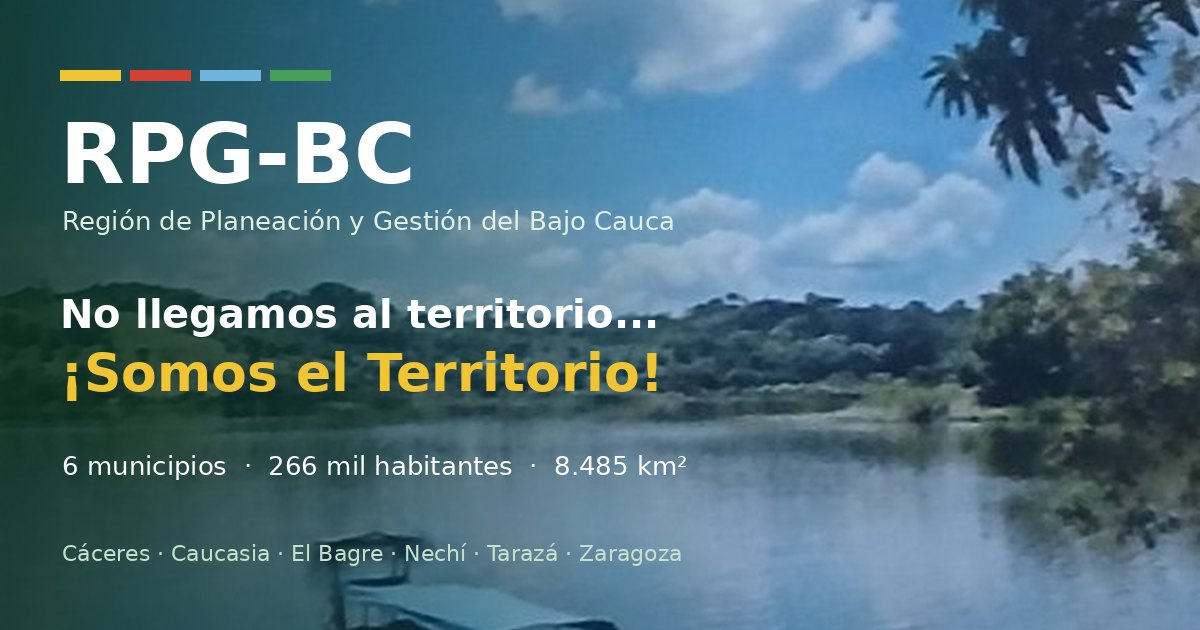
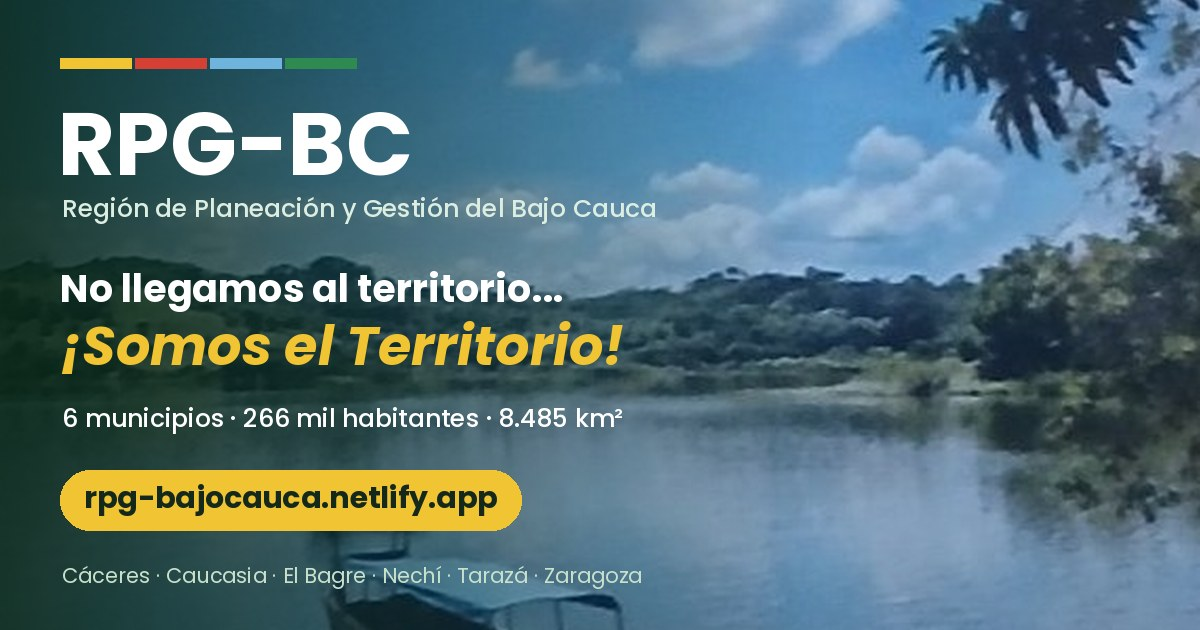
Flyer, nueva imagen de vista previa y robot de redes en GitHub Actions
Claude-Session: https://claude.ai/code/session_01Qv96KUwXrTQUjo7ijt55vV

diff --git a/index.html b/index.html
@@ -11,12 +11,15 @@
 <meta property="og:type" content="website">
 <meta property="og:title" content="RPG-BC · ¡Somos el Territorio!">
 <meta property="og:description" content="6 municipios, 1 visión regional: un Bajo Cauca más sostenible y biodiverso. Conoce la RPG-BC y presenta tu iniciativa.">
-<meta property="og:image" content="https://rpg-bajocauca.netlify.app/og.jpg">
+<meta property="og:image" content="https://rpg-bajocauca.netlify.app/og.jpg?v=2">
 <meta property="og:url" content="https://rpg-bajocauca.netlify.app/">
 <meta name="twitter:card" content="summary_large_image">
 <meta name="twitter:title" content="RPG-BC · ¡Somos el Territorio!">
 <meta name="twitter:description" content="6 municipios, 1 visión regional: un Bajo Cauca más sostenible y biodiverso.">
-<meta name="twitter:image" content="https://rpg-bajocauca.netlify.app/og.jpg">
+<meta name="twitter:image" content="https://rpg-bajocauca.netlify.app/og.jpg?v=2">
+<meta property="og:site_name" content="RPG-BC">
+<meta property="og:locale" content="es_CO">
+<meta property="og:image:alt" content="RPG-BC: No llegamos al territorio, ¡Somos el Territorio! — rpg-bajocauca.netlify.app">
 <meta property="og:image:width" content="1200">
 <meta property="og:image:height" content="630">
 
@@ -209,6 +212,29 @@ textarea{min-height:90px;resize:vertical}
 .contador-ini{display:flex;justify-content:space-between;align-items:center;margin-bottom:12px}
 .contador-ini b{color:var(--verde)}
 
+/* En redes */
+.redes-sec{background:linear-gradient(180deg,#fff,var(--menta))}
+.barra-redes{display:flex;flex-wrap:wrap;align-items:center;gap:10px;margin-bottom:20px}
+.hoy{background:var(--verde);color:#fff;border-radius:999px;padding:8px 16px;font-weight:700;font-size:.85rem}
+.hoy b{color:var(--amarillo)}
+.revision{font-size:.8rem;color:var(--gris)}
+.filtros{display:flex;gap:6px;flex-wrap:wrap;margin-bottom:18px}
+.filtros button{font-family:inherit;font-size:.78rem;font-weight:700;border:2px solid #cfe1d5;background:#fff;color:var(--verde);border-radius:999px;padding:7px 14px;cursor:pointer}
+.filtros button.on{background:var(--verde);border-color:var(--verde);color:#fff}
+.posts{display:grid;grid-template-columns:repeat(3,1fr);gap:16px}
+.post{background:#fff;border-radius:20px;overflow:hidden;box-shadow:0 10px 26px rgba(0,0,0,.08);display:flex;flex-direction:column;animation:aparece .5s}
+.post .img{position:relative;aspect-ratio:16/10;background:var(--verde);overflow:hidden}
+.post .img img,.post .img iframe{width:100%;height:100%;object-fit:cover;border:0;display:block}
+.post .red{position:absolute;left:10px;top:10px;background:rgba(0,0,0,.6);color:#fff;font-size:.68rem;font-weight:700;padding:4px 10px;border-radius:999px;letter-spacing:.5px}
+.post .red.nuevo{background:var(--rojo)}
+.post .play{position:absolute;inset:0;display:flex;align-items:center;justify-content:center;background:rgba(0,0,0,.25);border:0;cursor:pointer;color:#fff;font-family:inherit;font-weight:800;font-size:.9rem;letter-spacing:1px}
+.post .play span{background:var(--rojo);padding:10px 18px;border-radius:999px}
+.post .cuerpo{padding:14px 16px;display:flex;flex-direction:column;gap:6px;flex:1}
+.post .fecha{font-size:.72rem;color:var(--gris)}
+.post h4{font-size:.92rem;color:var(--tinta);line-height:1.35;display:-webkit-box;-webkit-line-clamp:4;-webkit-box-orient:vertical;overflow:hidden}
+.post a.ver{margin-top:auto;font-size:.78rem;font-weight:700;color:var(--verde3);text-decoration:none}
+@media (max-width:860px){.posts{grid-template-columns:1fr 1fr}}
+@media (max-width:520px){.posts{grid-template-columns:1fr}}
 /* Mapas y video */
 .mapas{display:grid;grid-template-columns:1fr 1.3fr;gap:18px;margin-bottom:24px}
 .mapas figure{background:#fff;border-radius:var(--radio);overflow:hidden;box-shadow:var(--sombra)}
@@ -301,6 +327,7 @@ footer b{color:#fff}
     <a href="#agenda" data-i18n="nAgenda">Agenda</a>
     <a href="#diferencia" data-i18n="nDiferencia">Lo que nos diferencia</a>
     <a href="#iniciativas" data-i18n="nIniciativas">Tu iniciativa</a>
+    <a href="#redes" data-i18n="nRedes">En redes</a>
     <a href="#video" data-i18n="nVideo">Video</a>
     <a href="#galeria" data-i18n="nGaleria">Galería</a>
     <a href="#contacto" data-i18n="nContacto">Contacto</a>
@@ -505,6 +532,30 @@ footer b{color:#fff}
   </div>
 </section>
 
+<!-- EN REDES (robot de GitHub) -->
+<section id="redes" class="redes-sec">
+  <div class="wrap">
+    <div class="titulo revela">
+      <div class="pre" data-i18n="rdPre">Lo último de @rpg_bajocauca</div>
+      <h2 data-i18n="rdH2">En redes y en las noticias</h2>
+      <p data-i18n="rdP">Un robot revisa cada 30 minutos las publicaciones de la RPG-BC y las noticias que la mencionan.</p>
+    </div>
+    <div class="barra-redes">
+      <span class="hoy" id="hoyRedes"><span data-i18n="rdHoy">Hoy</span>: <b id="numHoy">0</b> <span data-i18n="rdHoyTxt">publicaciones nuevas</span></span>
+      <button class="btn btn-verde" id="btnActualizar" style="padding:9px 18px;font-size:.82rem" data-i18n="rdActualizar">Actualizar</button>
+      <span class="revision" id="revision"></span>
+    </div>
+    <div class="filtros" id="filtros">
+      <button class="on" data-f="todo" data-i18n="rdTodo">Todo</button>
+      <button data-f="Instagram">Instagram</button>
+      <button data-f="YouTube">YouTube</button>
+      <button data-f="Noticia" data-i18n="rdNoticias">Noticias</button>
+      <button data-f="otras" data-i18n="rdOtras">Facebook / TikTok / X</button>
+    </div>
+    <div class="posts" id="posts"></div>
+  </div>
+</section>
+
 <!-- VIDEO -->
 <section id="video" class="seccion-video">
   <div class="wrap">
@@ -584,7 +635,7 @@ footer b{color:#fff}
 <script>
 /* ====== TEXTOS ES / EN ====== */
 const T={
-es:{marcaSub:"Región de Planeación y Gestión del Bajo Cauca",horaBC:"Hora en el Bajo Cauca",nSomos:"Somos",nMunicipios:"6 municipios",nAgenda:"Agenda",nDiferencia:"Lo que nos diferencia",nIniciativas:"Tu iniciativa",nGaleria:"Galería",nVideo:"Video",mapa1:"El Bajo Cauca antioqueño en Colombia",mapa2:"Los seis municipios de la RPG-BC",vPre:"El territorio en movimiento",vH2:"Seis paraísos biodiversos: río, bosque y gente",vNota:"Más videos de la RPG-BC en sus redes: @rpg_bajocauca",nContacto:"Contacto",
+es:{marcaSub:"Región de Planeación y Gestión del Bajo Cauca",horaBC:"Hora en el Bajo Cauca",nSomos:"Somos",nMunicipios:"6 municipios",nAgenda:"Agenda",nDiferencia:"Lo que nos diferencia",nIniciativas:"Tu iniciativa",nGaleria:"Galería",nVideo:"Video",nRedes:"En redes",rdPre:"Lo último de @rpg_bajocauca",rdH2:"En redes y en las noticias",rdP:"Un robot revisa cada 30 minutos las publicaciones de la RPG-BC y las noticias que la mencionan.",rdHoy:"Hoy",rdHoyTxt:"publicaciones nuevas",rdActualizar:"Actualizar",rdTodo:"Todo",rdNoticias:"Noticias",rdOtras:"Facebook / TikTok / X",rdRevisado:"Última revisión del robot",rdBuscando:"Buscando publicaciones…",rdVacio:"El robot todavía no ha traído publicaciones. Mientras tanto, mira las redes de la RPG-BC:",rdVer:"Ver publicación",rdVerVideo:"VER VIDEO",rdNuevo:"NUEVO",rdLista:"Listo, actualizado",mapa1:"El Bajo Cauca antioqueño en Colombia",mapa2:"Los seis municipios de la RPG-BC",vPre:"El territorio en movimiento",vH2:"Seis paraísos biodiversos: río, bosque y gente",vNota:"Más videos de la RPG-BC en sus redes: @rpg_bajocauca",nContacto:"Contacto",
 heroEtq:"Bajo Cauca · Seis paraísos biodiversos",heroH1:"No llegamos al territorio…<br><em>¡Somos el Territorio!</em>",heroSub:"Seis municipios, una visión regional: una agenda para un Bajo Cauca más sostenible y biodiverso.",heroBtn1:"Presenta tu iniciativa",heroBtn2:"Recorre los 6 municipios",
 cMun:"Municipios",cHab:"Habitantes",cTer:"De territorio",
 sPre:"Región de Planeación y Gestión",sH2:"Territorio que une oportunidades",sP:"Articulamos seis municipios para generar impacto regional.",
@@ -602,7 +653,7 @@ vacio:"Aún no has guardado iniciativas. Llena el formulario y aparecerán aquí
 gPre:"Bajo Cauca · Seis paraísos biodiversos",gH2:"Así se ve nuestro territorio",g1:"Río y canoa, paisaje del Bajo Cauca",g2:"Islas y montañas sobre el río",g3:"Atardecer en las ciénagas",g4:"Bosque y biodiversidad",g5:"Sembrando futuro en el territorio",g6:"Caucasia, capital del Bajo Cauca",g7:"Patrimonio y fe de la región",g8:"La vida ribereña",g9:"Planeación con la comunidad",
 kPre:"Conectemos",kH2:"Construyamos juntos nuevas oportunidades para el Bajo Cauca antioqueño",kP:"Conectemos nuestras capacidades y construyamos juntos nuevas oportunidades.",kCorreo:"Correo de la dirección",kWeb:"Sitio oficial",kRedes:"Redes sociales",compartir:"Compartir esta app",lema:"No llegamos al territorio… <em>¡Somos el Territorio!</em>",
 pie1:"Región de Planeación y Gestión del Bajo Cauca",instalar:"Instala la app de la RPG-BC",instalarBtn:"Instalar",cerrar:"Cerrar",lineas:["Ambiental","Social","Económico","Educativo","Cultural","Institucional"],fotoRef:"Foto de referencia del Bajo Cauca",municipio:"Municipio"},
-en:{marcaSub:"Bajo Cauca Planning and Management Region",horaBC:"Time in Bajo Cauca",nSomos:"Who we are",nMunicipios:"6 towns",nAgenda:"Agenda",nDiferencia:"What sets us apart",nIniciativas:"Your initiative",nGaleria:"Gallery",nVideo:"Video",mapa1:"Bajo Cauca, Antioquia, in Colombia",mapa2:"The six RPG-BC municipalities",vPre:"The territory in motion",vH2:"Six biodiverse paradises: river, forest and people",vNota:"More RPG-BC videos on its social media: @rpg_bajocauca",nContacto:"Contact",
+en:{marcaSub:"Bajo Cauca Planning and Management Region",horaBC:"Time in Bajo Cauca",nSomos:"Who we are",nMunicipios:"6 towns",nAgenda:"Agenda",nDiferencia:"What sets us apart",nIniciativas:"Your initiative",nGaleria:"Gallery",nVideo:"Video",nRedes:"Social media",rdPre:"Latest from @rpg_bajocauca",rdH2:"On social media and in the news",rdP:"A robot checks RPG-BC posts and news mentioning it every 30 minutes.",rdHoy:"Today",rdHoyTxt:"new posts",rdActualizar:"Refresh",rdTodo:"All",rdNoticias:"News",rdOtras:"Facebook / TikTok / X",rdRevisado:"Robot last checked",rdBuscando:"Looking for posts…",rdVacio:"The robot hasn't brought posts yet. Meanwhile, check RPG-BC on social media:",rdVer:"View post",rdVerVideo:"WATCH VIDEO",rdNuevo:"NEW",rdLista:"Done, refreshed",mapa1:"Bajo Cauca, Antioquia, in Colombia",mapa2:"The six RPG-BC municipalities",vPre:"The territory in motion",vH2:"Six biodiverse paradises: river, forest and people",vNota:"More RPG-BC videos on its social media: @rpg_bajocauca",nContacto:"Contact",
 heroEtq:"Bajo Cauca · Six biodiverse paradises",heroH1:"We don't come to the territory…<br><em>We are the Territory!</em>",heroSub:"Six municipalities, one regional vision: an agenda for a more sustainable and biodiverse Bajo Cauca.",heroBtn1:"Submit your initiative",heroBtn2:"Explore the 6 towns",
 cMun:"Municipalities",cHab:"Inhabitants",cTer:"Of territory",
 sPre:"Planning and Management Region",sH2:"A territory that brings opportunities together",sP:"We bring six municipalities together to create regional impact.",
@@ -654,7 +705,7 @@ function aplicarIdioma(){
   $$('[data-i18n]').forEach(el=>{const v=T[idioma][el.dataset.i18n]; if(v!=null) el.innerHTML=v;});
   $$('[data-i18n-ph]').forEach(el=>el.placeholder=t(el.dataset.i18nPh));
   $('#btnIdioma').textContent=idioma==='es'?'EN':'ES';
-  pintarLineas(); pintarFicha(actual); pintarLista();
+  pintarLineas(); pintarFicha(actual); pintarLista(); pintarRedes();
 }
 $('#btnIdioma').onclick=()=>{idioma=idioma==='es'?'en':'es';localStorage.setItem('rpg_idioma',idioma);aplicarIdioma();};
 
@@ -757,6 +808,47 @@ addEventListener('beforeinstallprompt',e=>{e.preventDefault();eventoInstalar=e;s
 $('#btnInstalar').onclick=async()=>{if(!eventoInstalar)return;eventoInstalar.prompt();await eventoInstalar.userChoice;eventoInstalar=null;$('#instalar').classList.remove('on');};
 addEventListener('appinstalled',()=>$('#instalar').classList.remove('on'));
 if('serviceWorker' in navigator)addEventListener('load',()=>navigator.serviceWorker.register('sw.js').catch(()=>{}));
+
+/* ====== EN REDES: lee lo que deja el robot en GitHub (sin pasar por Netlify) ====== */
+const RAW='https://raw.githubusercontent.com/haroldco45/rpg-bajocauca/main/';
+const FOTOS_RESPALDO=['img/rio-canoa.jpg','img/rio-isla.jpg','img/siembra.jpg','img/atardecer.jpg','img/arbol.jpg','img/letras-caucasia.jpg'];
+let REDES=null, filtro='todo';
+const hoyCO=()=>new Intl.DateTimeFormat('en-CA',{timeZone:'America/Bogota'}).format(new Date());
+const diaCO=iso=>{try{return new Intl.DateTimeFormat('en-CA',{timeZone:'America/Bogota'}).format(new Date(iso))}catch(e){return''}};
+const fechaBonita=iso=>{try{return new Intl.DateTimeFormat(idioma==='es'?'es-CO':'en-US',{timeZone:'America/Bogota',dateStyle:'medium',timeStyle:'short'}).format(new Date(iso))}catch(e){return''}};
+const rutaImg=src=>!src?'':/^https?:/.test(src)?src:src.startsWith('data/')?RAW+src:src;
+async function cargarRedes(manual){
+  $('#posts').innerHTML=`<div class="vacio">${t('rdBuscando')}</div>`;
+  let d=null;
+  try{const r=await fetch(RAW+'data/redes.json?t='+Date.now(),{cache:'no-store'});if(r.ok)d=await r.json();}catch(e){}
+  if(!d){try{const r=await fetch('data/redes.json?t='+Date.now(),{cache:'no-store'});if(r.ok)d=await r.json();}catch(e){}}
+  REDES=d||{youtube:[],instagram:[],noticias:[],manual:[]};
+  pintarRedes(); if(manual)aviso(t('rdLista'));
+}
+function todasRedes(){if(!REDES)return[];
+  return [...(REDES.instagram||[]),...(REDES.youtube||[]),...(REDES.noticias||[]),...(REDES.manual||[]).filter(x=>x.id!=='m-ejemplo')]
+   .filter(x=>x&&x.enlace).sort((a,b)=>String(b.fecha).localeCompare(String(a.fecha)));}
+function pintarRedes(){if(!REDES)return;
+  const hoy=hoyCO(), lista=todasRedes();
+  $('#numHoy').textContent=lista.filter(x=>diaCO(x.fecha)===hoy).length;
+  $('#revision').textContent=REDES.revisado?`${t('rdRevisado')}: ${REDES.revisado}`:'';
+  const vis=lista.filter(x=>filtro==='todo'||(filtro==='otras'?!['Instagram','YouTube','Noticia'].includes(x.red):x.red===filtro));
+  if(!vis.length){$('#posts').innerHTML=`<div class="vacio" style="grid-column:1/-1">${t('rdVacio')}<div class="redes" style="justify-content:center">
+    <a class="btn-verde" style="background:var(--verde);color:#fff" href="https://www.instagram.com/rpg_bajocauca/" target="_blank" rel="noopener">Instagram</a>
+    <a style="background:var(--verde);color:#fff" href="https://www.facebook.com/rpg_bajocauca" target="_blank" rel="noopener">Facebook</a>
+    <a style="background:var(--verde);color:#fff" href="https://www.tiktok.com/@rpg_bajocauca" target="_blank" rel="noopener">TikTok</a>
+    <a style="background:var(--verde);color:#fff" href="https://www.youtube.com/@rpg_bajocauca" target="_blank" rel="noopener">YouTube</a></div></div>`;return;}
+  $('#posts').innerHTML=vis.slice(0,12).map((x,i)=>{const img=rutaImg(x.imagen)||FOTOS_RESPALDO[i%FOTOS_RESPALDO.length];const nuevo=diaCO(x.fecha)===hoy;
+    return `<article class="post"><div class="img"><img src="${esc(img)}" alt="" loading="lazy" onerror="this.src='${FOTOS_RESPALDO[i%FOTOS_RESPALDO.length]}'">
+    <span class="red ${nuevo?'nuevo':''}">${nuevo?t('rdNuevo')+' · ':''}${esc(x.red)}${x.fuente?' · '+esc(x.fuente):''}</span>
+    ${x.video?`<button class="play" data-v="${esc(x.video)}"><span>${t('rdVerVideo')}</span></button>`:''}</div>
+    <div class="cuerpo"><span class="fecha">${fechaBonita(x.fecha)}</span><h4>${esc(x.titulo)}</h4>
+    <a class="ver" href="${esc(x.enlace)}" target="_blank" rel="noopener">${t('rdVer')} →</a></div></article>`}).join('');}
+$('#posts').addEventListener('click',e=>{const b=e.target.closest('.play');if(!b)return;
+  b.parentElement.innerHTML=`<iframe src="https://www.youtube-nocookie.com/embed/${encodeURIComponent(b.dataset.v)}?autoplay=1&rel=0" allow="autoplay; encrypted-media; fullscreen" allowfullscreen></iframe>`;});
+$('#filtros').onclick=e=>{const b=e.target.closest('button');if(!b)return;filtro=b.dataset.f;$$('#filtros button').forEach(x=>x.classList.toggle('on',x===b));pintarRedes();};
+$('#btnActualizar').onclick=()=>cargarRedes(true);
+cargarRedes(false);
 
 aplicarIdioma();
 </script>

diff --git a/sw.js b/sw.js
@@ -1,4 +1,4 @@
-const CACHE='rpg-bc-v2';
+const CACHE='rpg-bc-v3';
 const ARCHIVOS=['./','index.html','manifest.json','icon-192.png','icon-512.png','og.jpg',
 'img/rio-canoa.jpg','img/rio-isla.jpg','img/atardecer.jpg','img/siembra.jpg','img/arbol.jpg',
 'img/equipo.jpg','img/letras-caucasia.jpg','img/templo.jpg','img/monumento.jpg','img/mapa-bajo-cauca.jpg','img/mapa-colombia.jpg'];

diff --git a/README.md b/README.md
@@ -27,3 +27,13 @@ video/ territorio.mp4  (video de portada hecho con las fotos reales)
 3. Si el sitio queda con otro nombre, cambiar la URL en las etiquetas `og:image`, `og:url` y `twitter:image` de `index.html`.
 
 Desarrollada por **Vibras Positivas HM** — Derechos de Autor Reservados · vibraspositivashm.com
+
+## Robot de redes (solo GitHub)
+- `.github/workflows/robot-redes.yml` corre cada 30 minutos en GitHub Actions (y a mano con **Run workflow**).
+- `scripts/robot.mjs` revisa **Instagram** y **YouTube** de @rpg_bajocauca y las **noticias** de Google Noticias que mencionan a la RPG-BC. Deja todo en `data/redes.json` y guarda las fotos de Instagram en `data/redes/` para que no se rompan.
+- Facebook, TikTok y X no dejan leer sus publicaciones sin cuenta: las que quieras destacar se pegan en `data/manual.json`.
+- La app lee `data/redes.json` directo desde GitHub. `netlify.toml` hace que Netlify **no** publique los commits del robot (`[robot]`), así no se gastan créditos.
+- La app trae botón **Actualizar**, contador **Hoy** y la hora de la última revisión (hora Colombia).
+
+## Flyer
+`flyer.jpg` (1080×1350) con QR a https://rpg-bajocauca.netlify.app
